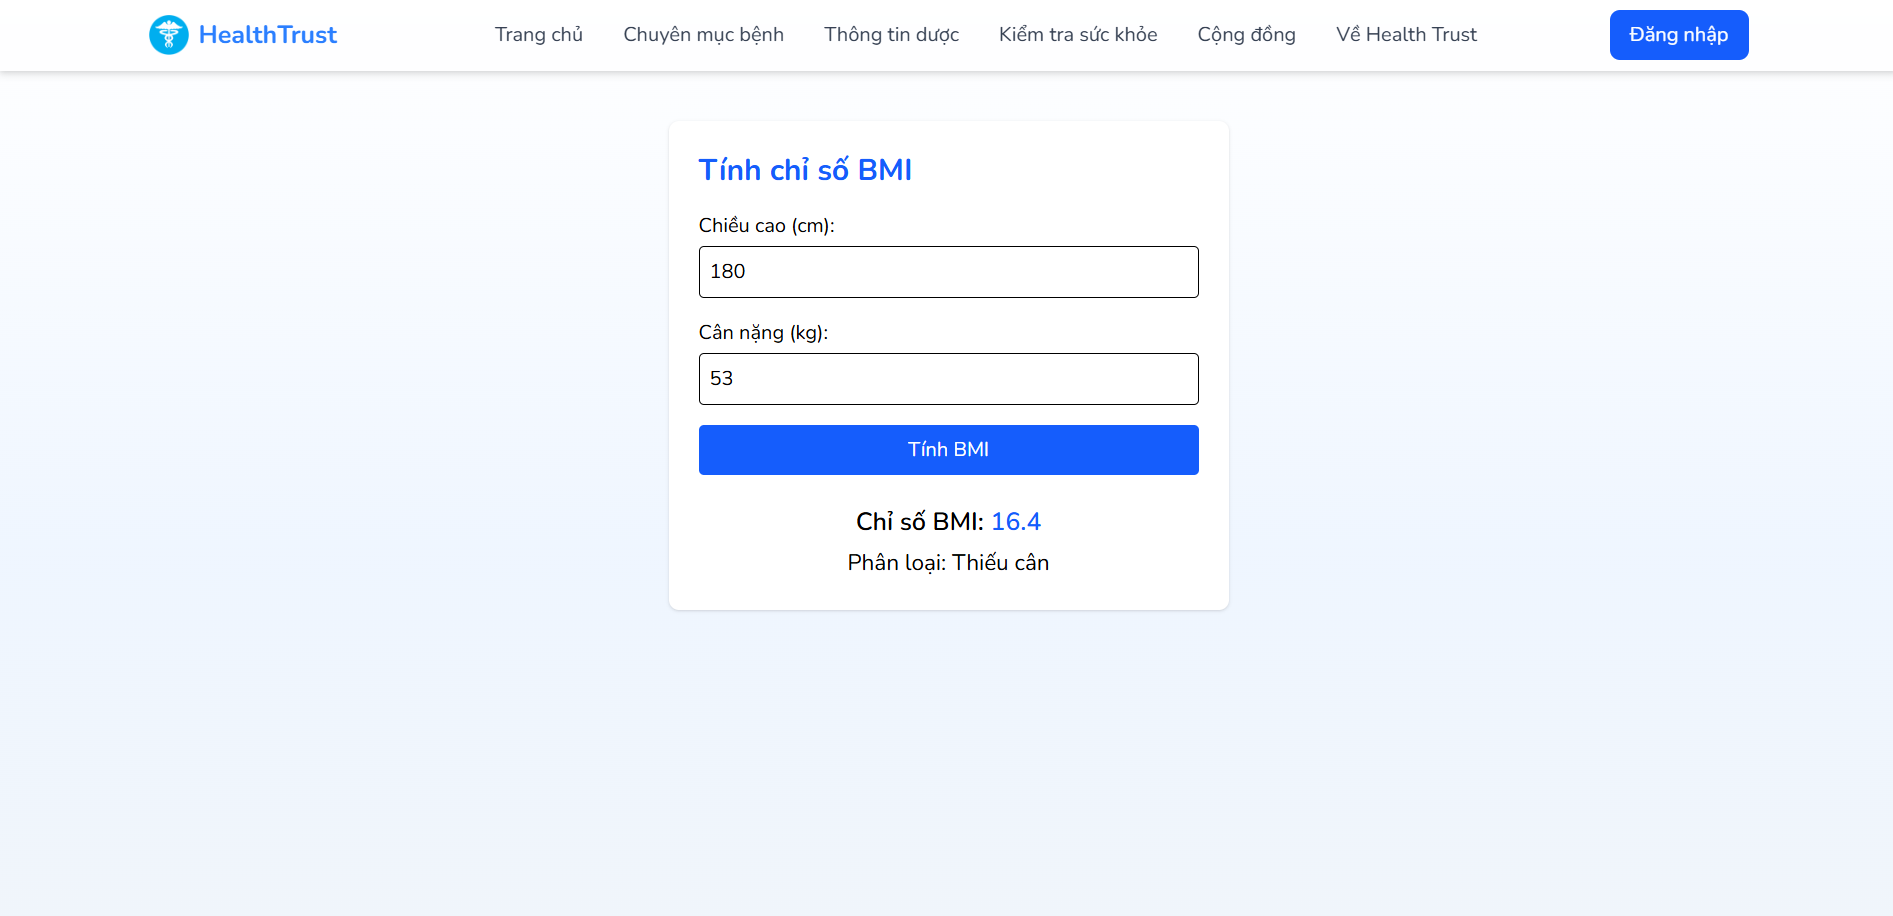
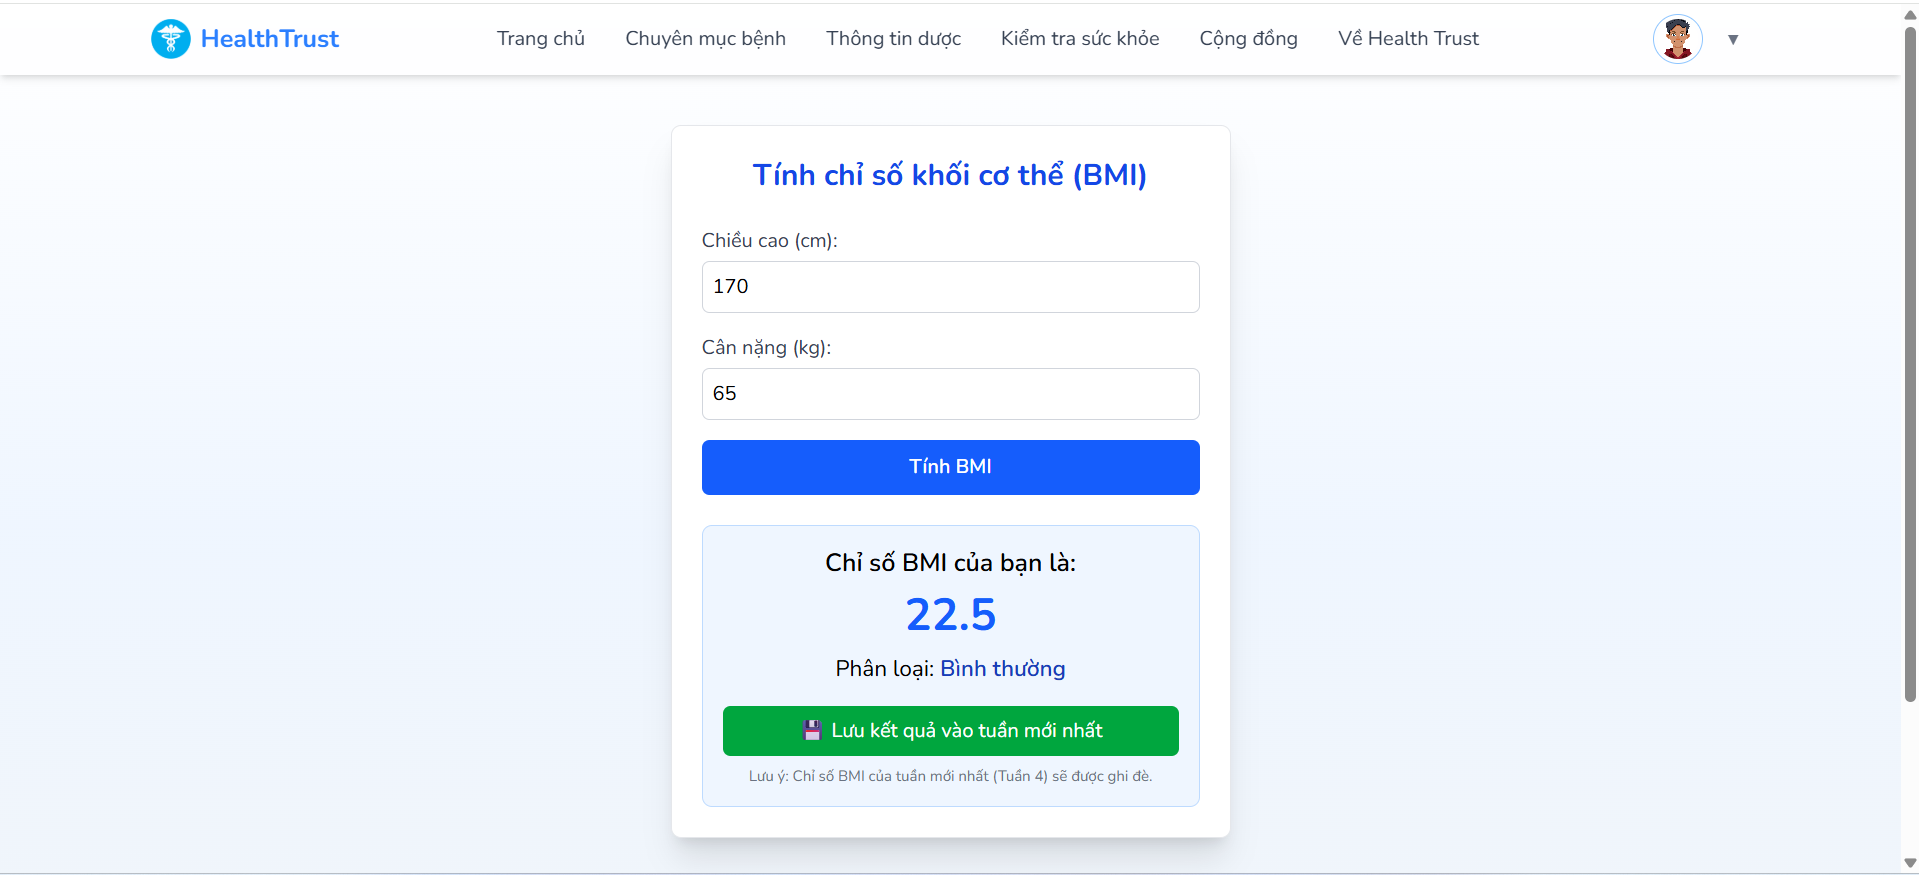
readme

diff --git a/README.md b/README.md
@@ -117,12 +117,12 @@ Hệ thống được chia thành ba phần chính:
   - Cung cấp thông tin về triệu chứng, nguyên nhân, cách điều trị các bệnh thường gặp.
   - Nội dung được chọn lọc từ các nguồn y tế uy tín.
 - Công cụ tính toán sức khỏe:
-  - **BMI** – tính chỉ số khối cơ thể.
+  - **BMI** – tính chỉ số khối cơ thể và lưu chỉ số này vô thông tin chỉ số của người dùng.
   - **Nhu cầu calo hằng ngày** – tính toán theo giới tính, tuổi, chiều cao, cân nặng và mức độ vận động.
   - **Cân nặng lý tưởng** – gợi ý mức cân phù hợp theo chiều cao và độ tuổi.
-  - **Tỷ lệ mỡ cơ thể** – ước tính dựa trên các thông số như vòng cổ, vòng eo, chiều cao.
+  - **Tỷ lệ mỡ cơ thể** – tính dựa trên các thông số như vòng cổ, vòng eo, chiều cao; lưu thông tin chỉ số này vô thông tin chỉ số của người dùng.
 - Lịch hiến máu:
-  - Hiển thị các đợt hiến máu theo khu vực gần nhất.
+  - Hiển thị thông tin thời gian, địa điểm của các đợt hiến máu.
 - Tin tức sức khỏe:
   - Cập nhật tin tức theo nhóm bệnh: tim mạch, hô hấp, thần kinh,...
   - Nguồn tin được chọn lọc từ báo chí và tổ chức y tế có độ tin cậy cao.
@@ -132,7 +132,7 @@ Hệ thống được chia thành ba phần chính:
 - Chatbot tư vấn:
   - Hỗ trợ trò chuyện (cho phép gửi ảnh và voice), cung cấp thông tin liên quan đến các vấn đề sức khỏe.
 - Hệ thống gợi ý bài báo liên quan:
-  - Dựa trên bệnh nền của bệnh nhân trong Personal Tracker để đưa top 3 bài báo liên quan nhất phù hợp với bệnh nhân.
+  - Dựa trên bệnh nền của bệnh nhân trong Personal Tracker để đưa ra các bài báo liên quan nhất phù hợp với bệnh nhân.
 ---
 ## Công nghệ sử dụng.
 
@@ -657,7 +657,7 @@ payloads.append({
   "Yếu tố nguy cơ ung thư dạ dày"
 ]
 
-- Frontend chỉ hiển thị 5 bài báo gợi ý đầu tiên, ưu tiên theo độ tương đồng embedding.
+- Frontend chỉ hiển thị 6 bài báo gợi ý đầu tiên, ưu tiên theo độ tương đồng embedding.
 ![alt text](images/image-goiybao1.png)
 ![alt text](images/image-goiybao2.png)
 ---
@@ -685,9 +685,13 @@ npx serve -s dist
 
 ### Giao diện các chức năng chính.
 
-Trang chủ.
+Trang chủ khi chưa đăng nhập.
 
 ![alt text](images/image-2.png)
+
+Trang chủ khi đã đăng nhập.
+
+![alt text](images/home.png)
 
 Đăng ký & xác minh.
 
@@ -937,7 +941,7 @@ server {
 | STT | Họ và Tên            | Vai trò/Nhiệm vụ chính |
 |-----|----------------------|--------------------------|
 | 1   | Nguyễn Thế Anh       | - Chỉnh sửa phần frontend và backend của form xác thực người dùng<br>- Hỗ trợ tăng tốc độ tải trang (PageSpeed)<br>- Phát triển mô hình học sâu nhận diện bệnh ngoài da<br>- Phát triển tính năng cảnh báo bệnh theo vị trí và thời tiết người dùng<br>- Giao và phân chia công việc trong nhóm<br>- Theo dõi tiến độ thực hiện dự án của các thành viên<br>- Deploy toàn bộ hệ thống trên cloud (DigitalOcean) sử dụng Nginx và cấu hình SSL<br>- Xử lý xung đột khi pull request lên nhánh chính<br>- Đăng ký Gmail đặc quyền để gửi OTP trên môi trường production<br>- Cấu hình các bản ghi MX và TXT để phục vụ email hệ thống<br>- Phát triển chatbot để cá nhân hóa theo thông tin của người dùng, hỗ trợ kết hợp thông tin prompt + thông tin cá nhân trước đó của bệnh nhân để ra câu trả lời khách quan nhất: bệnh nền, chỉ số y tế: BMI, nhịp tim, huyết áp,... |
-| 2   | Nguyễn Đức Hùng      | - Phát triển nội dung chi tiết cho thông tin bệnh<br>- Phát triển backend cho tính năng personal tracker<br>- Chỉnh sửa giao diện tương ứng với các thay đổi backend<br>- Cải thiện điểm PageSpeed của website<br>- Hiển thị bài báo gợi ý lên giao diện người dùng<br>- Chỉnh sửa logic thay đổi avatar người dùng trên navbar |
+| 2   | Nguyễn Đức Hùng      | - Phát triển nội dung chi tiết cho thông tin bệnh<br>- Phát triển backend cho tính năng personal tracker<br>- Chỉnh sửa giao diện tương ứng với các thay đổi backend<br>- Cải thiện điểm PageSpeed của website<br>- Hiển thị bài báo gợi ý lên giao diện người dùng<br>- Chỉnh sửa logic thay đổi avatar người dùng trên navbar<br> - Xây dựng frontend và backend cho phần Lịch hiến máu<br> - Thêm tính năng lưu chỉ số BMI và Tỉ lệ mỡ vô personal tracker của người dùng. |
 | 3   | Nguyễn Quốc Vương    | - Kết nối frontend và backend cho form xác thực người dùng<br>- Phát triển frontend cho tính năng personal tracker<br>- Xây dựng hệ thống tìm kiếm thông tin dược phẩm sử dụng Elasticsearch<br>- Thiết kế giao diện cho chatbot AI<br>- Xây dựng tính năng OCR ảnh để lấy thông tin y tế từ hồ sơ bệnh án. |
 | 4   | Huỳnh Gia Bảo        | - Thiết kế giao diện trang chủ<br>- Phát triển giao diện các trang giới thiệu, thông tin bệnh và thông tin thuốc<br>- Tối ưu điểm SEO của trang web |
 | 5   | Phan Đức Anh         | - Phát triển RAG Chatbot AI chuyên môn hóa lĩnh vực y tế, hỗ trợ ghi nhớ ngữ cảnh và chuyển giọng nói thành văn bản<br>- Phát triển database Qdrant để phục vụ cho phần chatbot và gợi ý bài báo liên quan kết hợp AI<br>- Xây dựng hệ thống gợi ý bài báo y khoa dựa trên tình trạng bệnh nền của người dùng<br>- Xây dựng API phục vụ cho việc gọi và hiển thị top 3 bài báo liên quan trên frontend<br>- Thu thập và xử lý dữ liệu y tế để huấn luyện và nâng cao hiệu quả chatbot |
